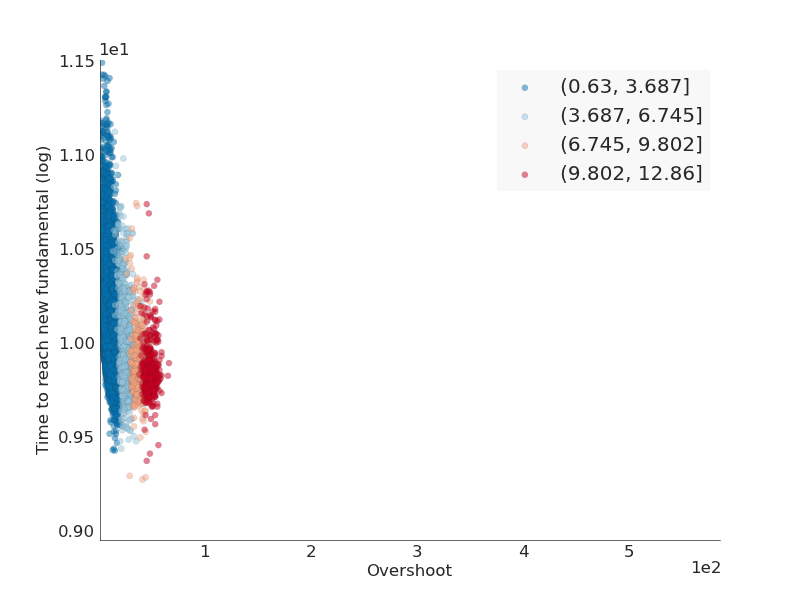
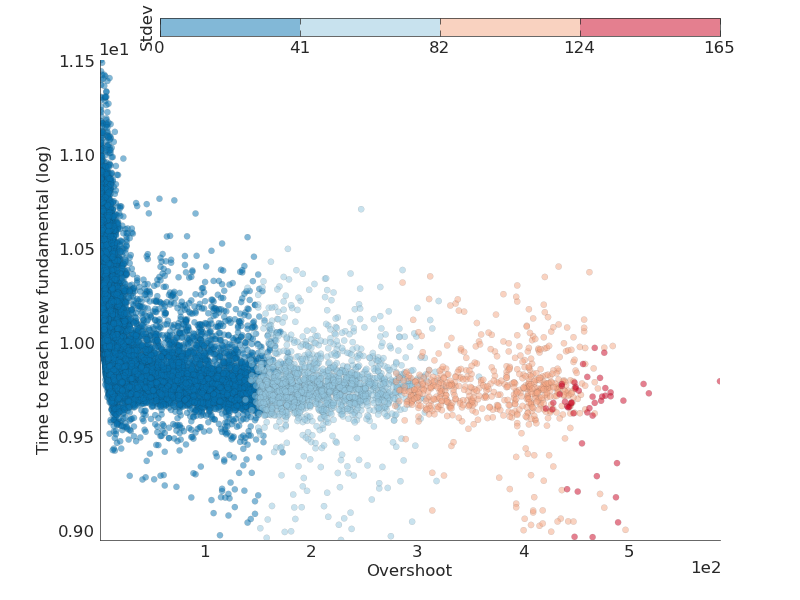
Makes colorbar optional in scatter plot

diff --git a/python/plotting.py b/python/plotting.py
@@ -73,7 +73,7 @@ def make_tradeprice_plot(rounds, tradePrice, all_parameters, graph_folder, fitne
     gc.collect()
 
 
-def make_color_grouped_scatter_plot(data_frame, x_name, y_name, color_by, filename, x_function = 'dummy', y_function = 'dummy', color_function = 'dummy', legend = True):
+def make_color_grouped_scatter_plot(data_frame, x_name, y_name, color_by, filename, x_function = 'dummy', y_function = 'dummy', color_function = 'dummy', legend = False, colorbar = True):
     ### Originally created for issue_21
     def dummy(a): return a
     fig, ax = plt.subplots(1)
@@ -90,8 +90,8 @@ def make_color_grouped_scatter_plot(data_frame, x_name, y_name, color_by, filena
     ax.yaxis.get_major_formatter().set_powerlimits((0, 1))
     # Show the whole color range
     n_intervals = 4
-    bins = np.logspace(np.log(data_frame[color_by].min()), np.log(data_frame[color_by].max()), n_intervals + 1, base = np.e)
-    #bins = np.linspace(eval(color_function)(data_frame[color_by].min()), eval(color_function)(data_frame[color_by].max()), n_intervals + 1)
+    if color_function == 'log': bins = np.logspace(np.log10( data_frame[color_by].min()), np.log10(data_frame[color_by].max()), n_intervals + 1, base = 10)
+    else: bins = np.linspace(eval(color_function)(data_frame[color_by].min()), eval(color_function)(data_frame[color_by].max()), n_intervals + 1)
     data_frame['groups'] = pandas.cut(data_frame[color_by], bins=bins, labels = False)
     groups = pandas.cut(data_frame[color_by], bins=bins)
     bounds = []
@@ -103,18 +103,19 @@ def make_color_grouped_scatter_plot(data_frame, x_name, y_name, color_by, filena
         y = eval(y_function)(data_frame[data_frame.groups == g][y_name])
         ppl.scatter(ax, x, y, label=str(groups.levels[g]))
 
-    #if legend: ppl.legend(ax)
+    if legend: ppl.legend(ax)
     #ax.set_title('prettyplotlib `scatter` example\nshowing default color cycle and scatter params')
     
 
     bounds = bins
     print bounds
-    cmap = brewer2mpl.get_map('RdBu', 'diverging', 4, reverse=True).mpl_colormap
-    norm = mpl.colors.BoundaryNorm(bounds, cmap.N)
-    ax2 = fig.add_axes([0.8, 0.1, 0.03, 0.8])
-    ax2.set_ylabel(color_by.capitalize().replace('_', ' '))
-    cbar = mpl.colorbar.ColorbarBase(ax2, cmap=cmap, spacing='proportional', ticks=bounds, norm=norm, alpha=0.5)
-    cbar.ax.set_yticklabels([np.round(t) for t in bounds])# vertically oriented colorbar
+    if colorbar:
+        cmap = brewer2mpl.get_map('RdBu', 'diverging', 4, reverse=True).mpl_colormap
+        norm = mpl.colors.BoundaryNorm(bounds, cmap.N)
+        ax2 = fig.add_axes([0.2, 0.94 , 0.7, 0.03])
+        ax2.set_ylabel(color_by.capitalize().replace('_', ' '))
+        cbar = mpl.colorbar.ColorbarBase(ax2, cmap=cmap, spacing='proportional', ticks=bounds, norm=norm, alpha=0.5, orientation='horizontal')
+        cbar.ax.set_xticklabels([str(int(t)) for t in bounds])# vertically oriented colorbar
 
     fig.savefig(filename)
 
